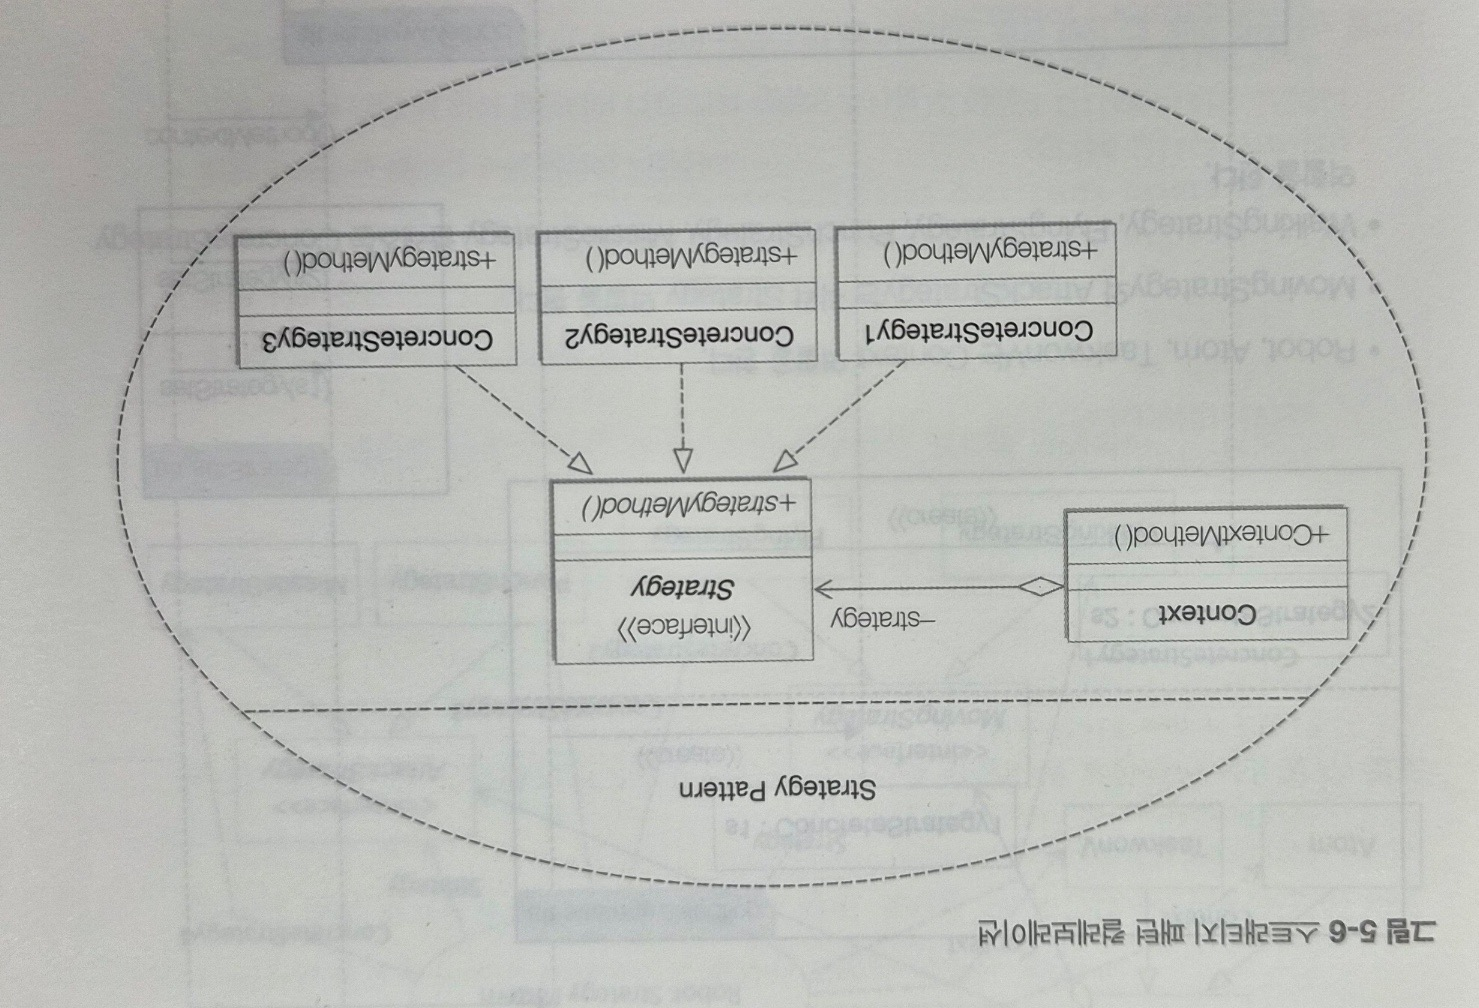
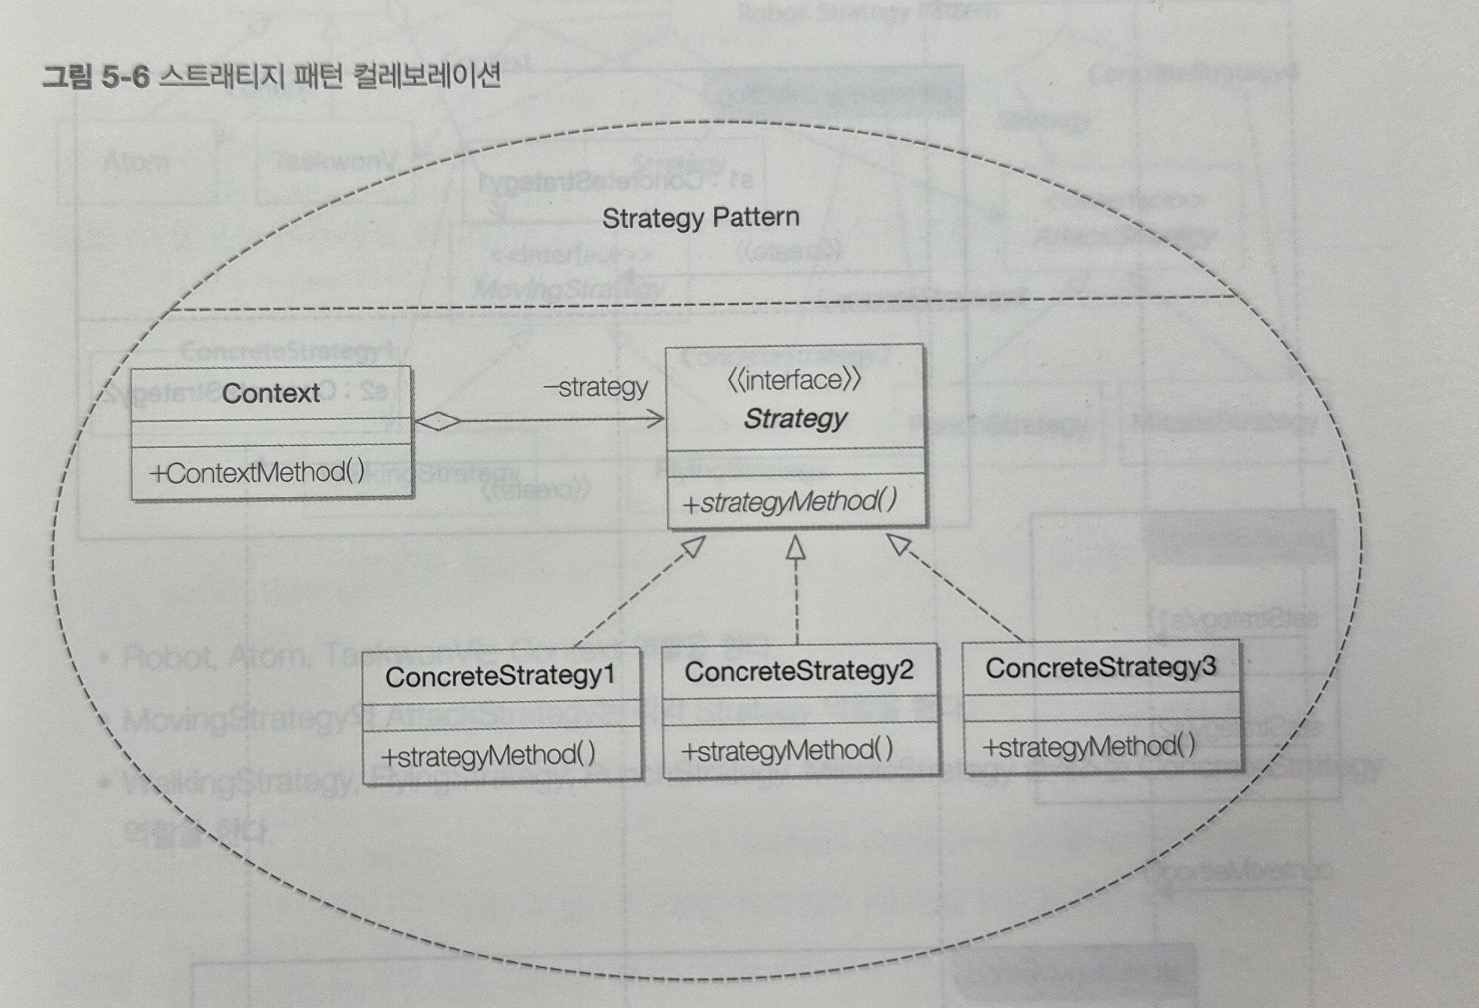
docs: deck — fix upside-down Strategy textbook photo, mark Iteration 4 work red in team contribution

diff --git a/docs/iteration-reports/iter4-deck-simple/slides/03.html b/docs/iteration-reports/iter4-deck-simple/slides/03.html
@@ -63,4 +63,4 @@
  .cover{justify-content:center;align-items:flex-start}
  .cover h1{font-size:104px;line-height:1.04} .cover .sub{font-size:42px;margin-top:26px}
  .cover .meta{font-size:29px;color:#5a6472;margin-top:50px}
-</style></head><body><div class="slide"><h1><span class="emoji">👥</span>팀 기여</h1><div class="rule"></div><div class="body" style="align-items:stretch"><div class="teamrow"><div class="person"><div class="nm">김정욱</div><div class="ro">도메인 모델 · 디자인 패턴 통합</div><div class="ct">상태 머신, Strategy, Observer, 그리고 Iteration 4의 패턴들을 설계하고 통합</div></div><div class="person"><div class="nm">이재호</div><div class="ro">JavaFX 사용자 인터페이스</div><div class="ct">FXML 화면, app.css, shell 내비게이션, 화면별 패턴 연결</div></div><div class="person"><div class="nm">김경동</div><div class="ro">Control 계층 · 외부 연동 · QA</div><div class="ct">결제 processor, RefundHandler, Skypass adapter 및 품질 검증</div></div></div></div><div class="footer"><span>OODP · Iteration 4 · 대한항공 예약 시스템</span><span>3 / 31</span></div></div></body></html>
+</style></head><body><div class="slide"><h1><span class="emoji">👥</span>팀 기여</h1><div class="sub">빨간색 = Iteration 4에서 한 작업</div><div class="rule"></div><div class="body" style="align-items:stretch"><div class="teamrow"><div class="person"><div class="nm">김정욱</div><div class="ro">도메인 모델 · 디자인 패턴 통합</div><div class="ct">Iter 1-3: 상태 머신, Strategy, Observer.<span style="color:#c0202a;display:block;margin-top:12px">Iter 4: Composite, Singleton, Factory Method, Template Method, Adapter, Decorator 통합 및 리팩토링</span></div></div><div class="person"><div class="nm">이재호</div><div class="ro">JavaFX 사용자 인터페이스</div><div class="ct">Iter 1-3: walking-skeleton 예약 흐름, boundary 계층.<span style="color:#c0202a;display:block;margin-top:12px">Iter 4: FXML 화면 전체 JavaFX UI, app.css, shell 내비게이션, 화면별 패턴 연결</span></div></div><div class="person"><div class="nm">김경동</div><div class="ro">Control 계층 · 외부 연동 · QA</div><div class="ct">Iter 2-3: 결제 processor, RefundHandler.<span style="color:#c0202a;display:block;margin-top:12px">Iter 4: Skypass Adapter 외부 연동, RefundPolicyResolver, QA</span></div></div></div></div><div class="footer"><span>OODP · Iteration 4 · 대한항공 예약 시스템</span><span>3 / 31</span></div></div></body></html>
